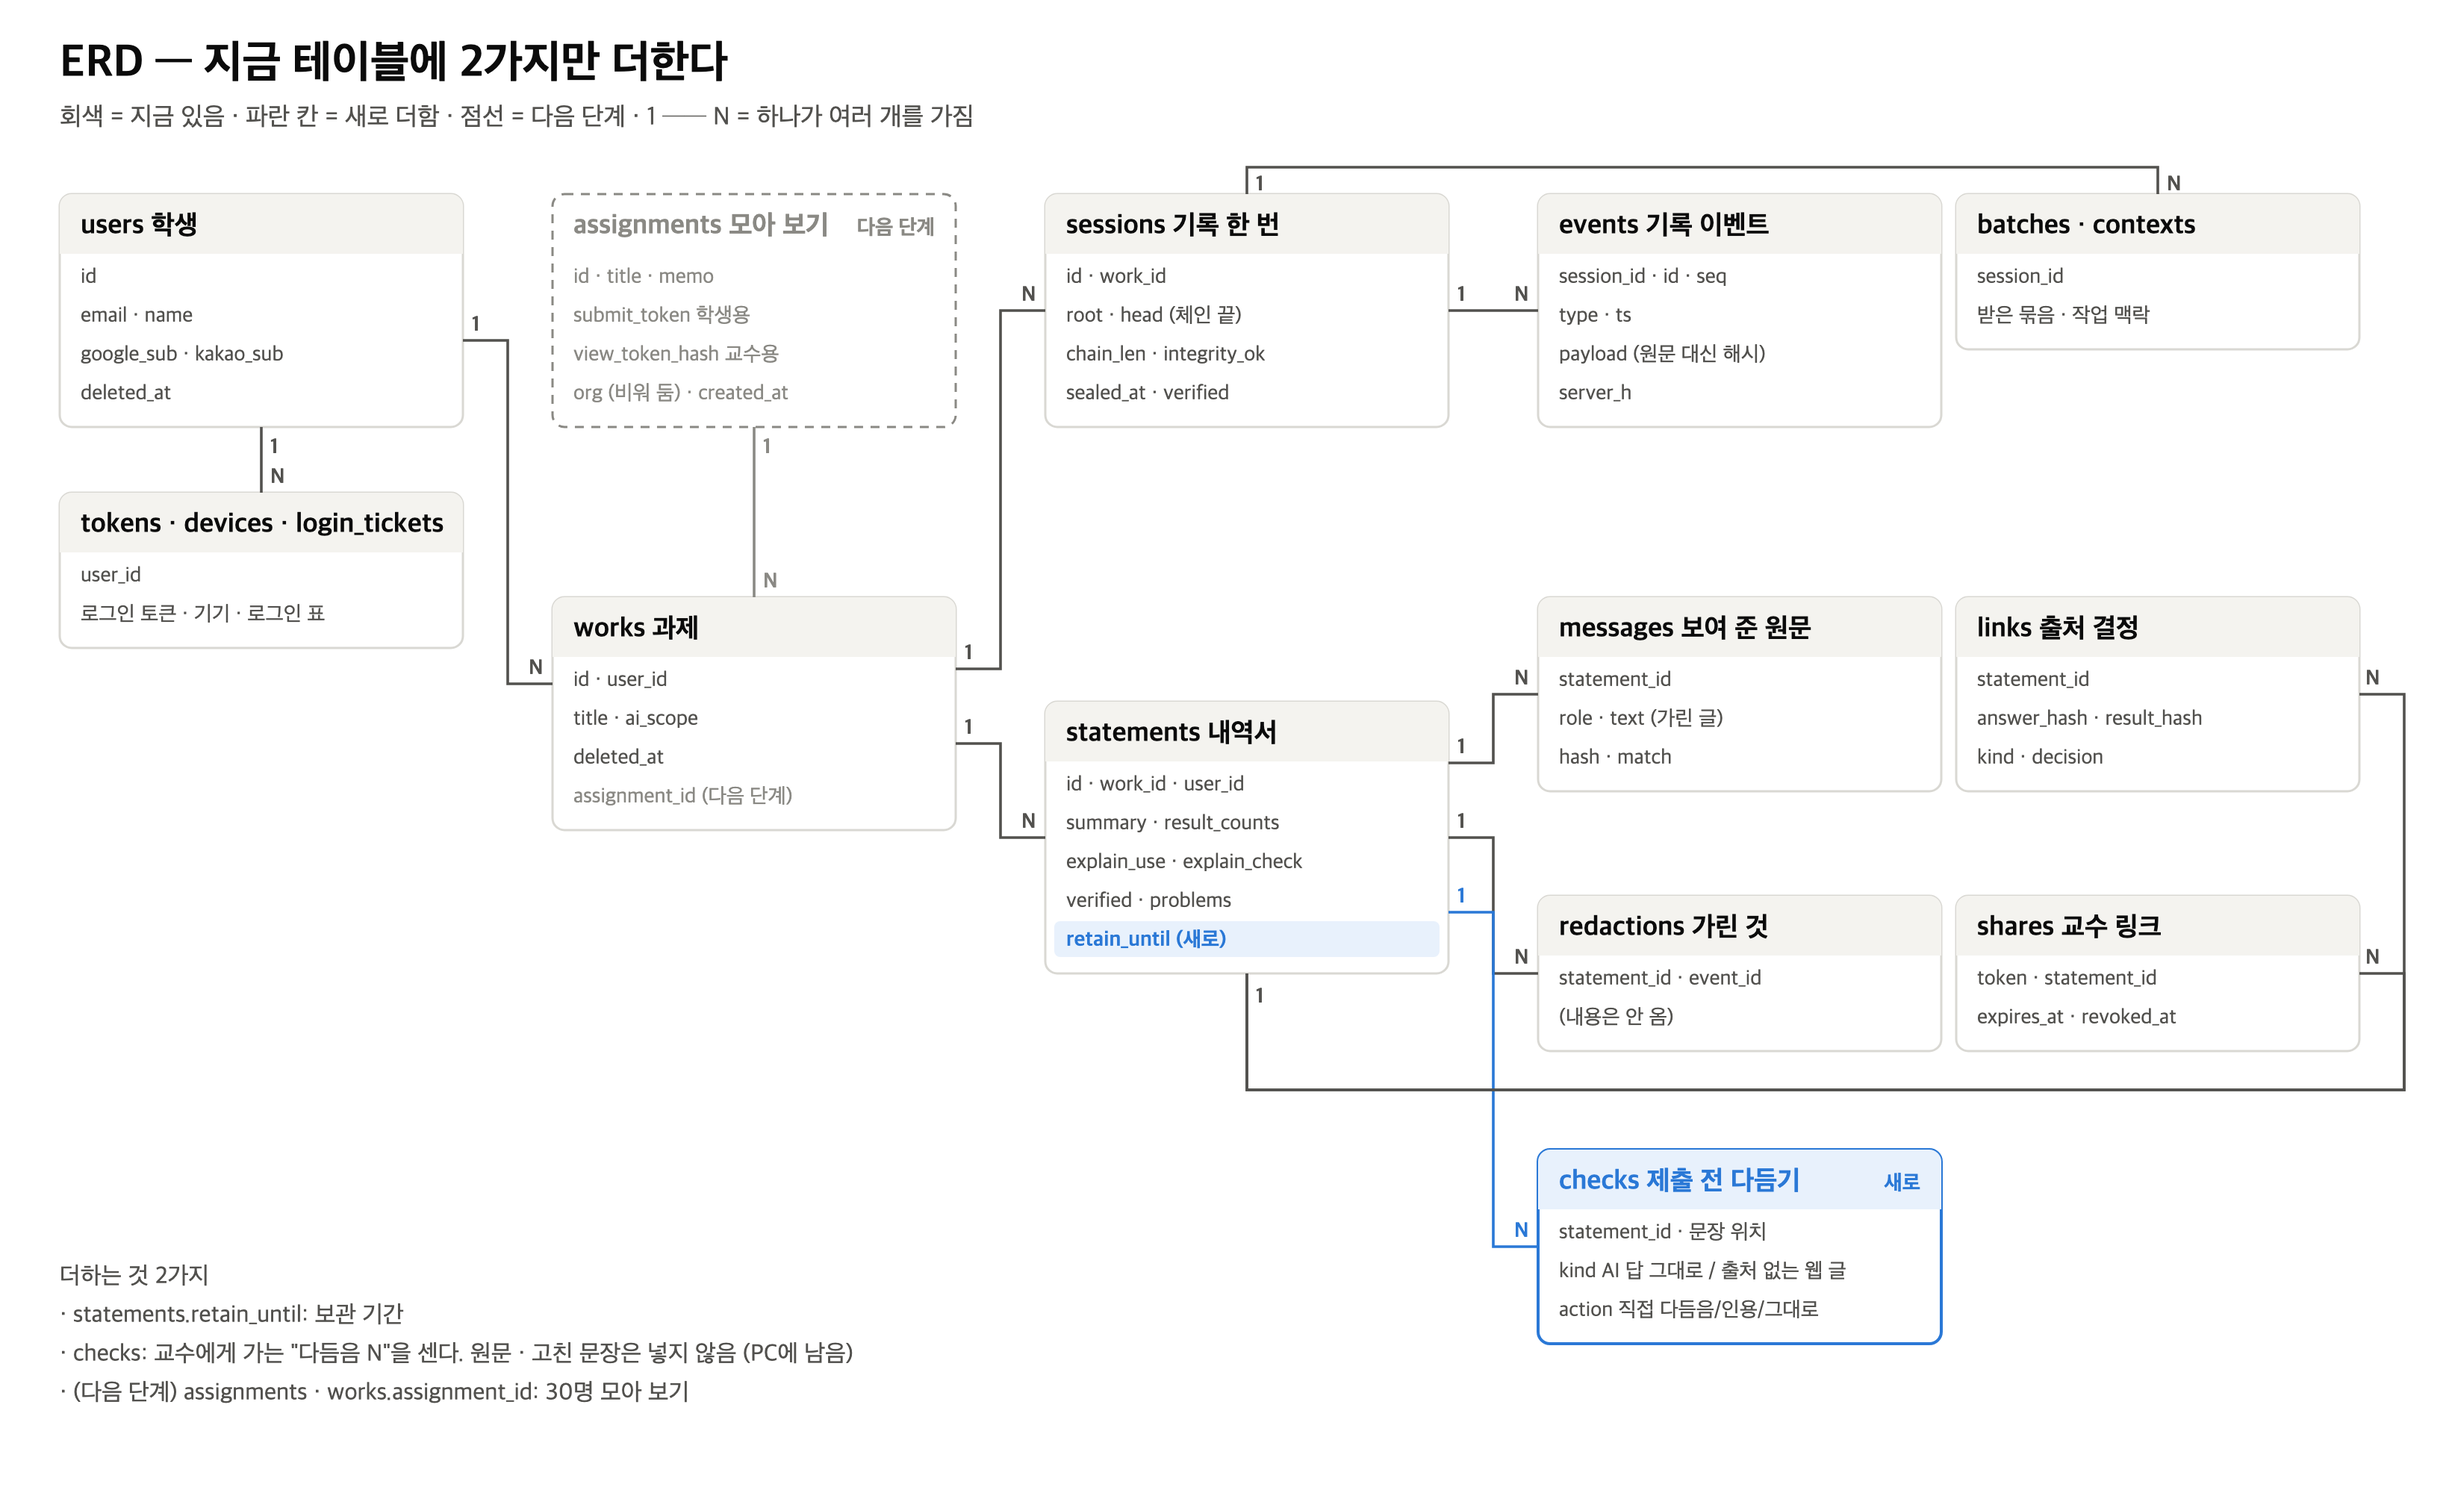
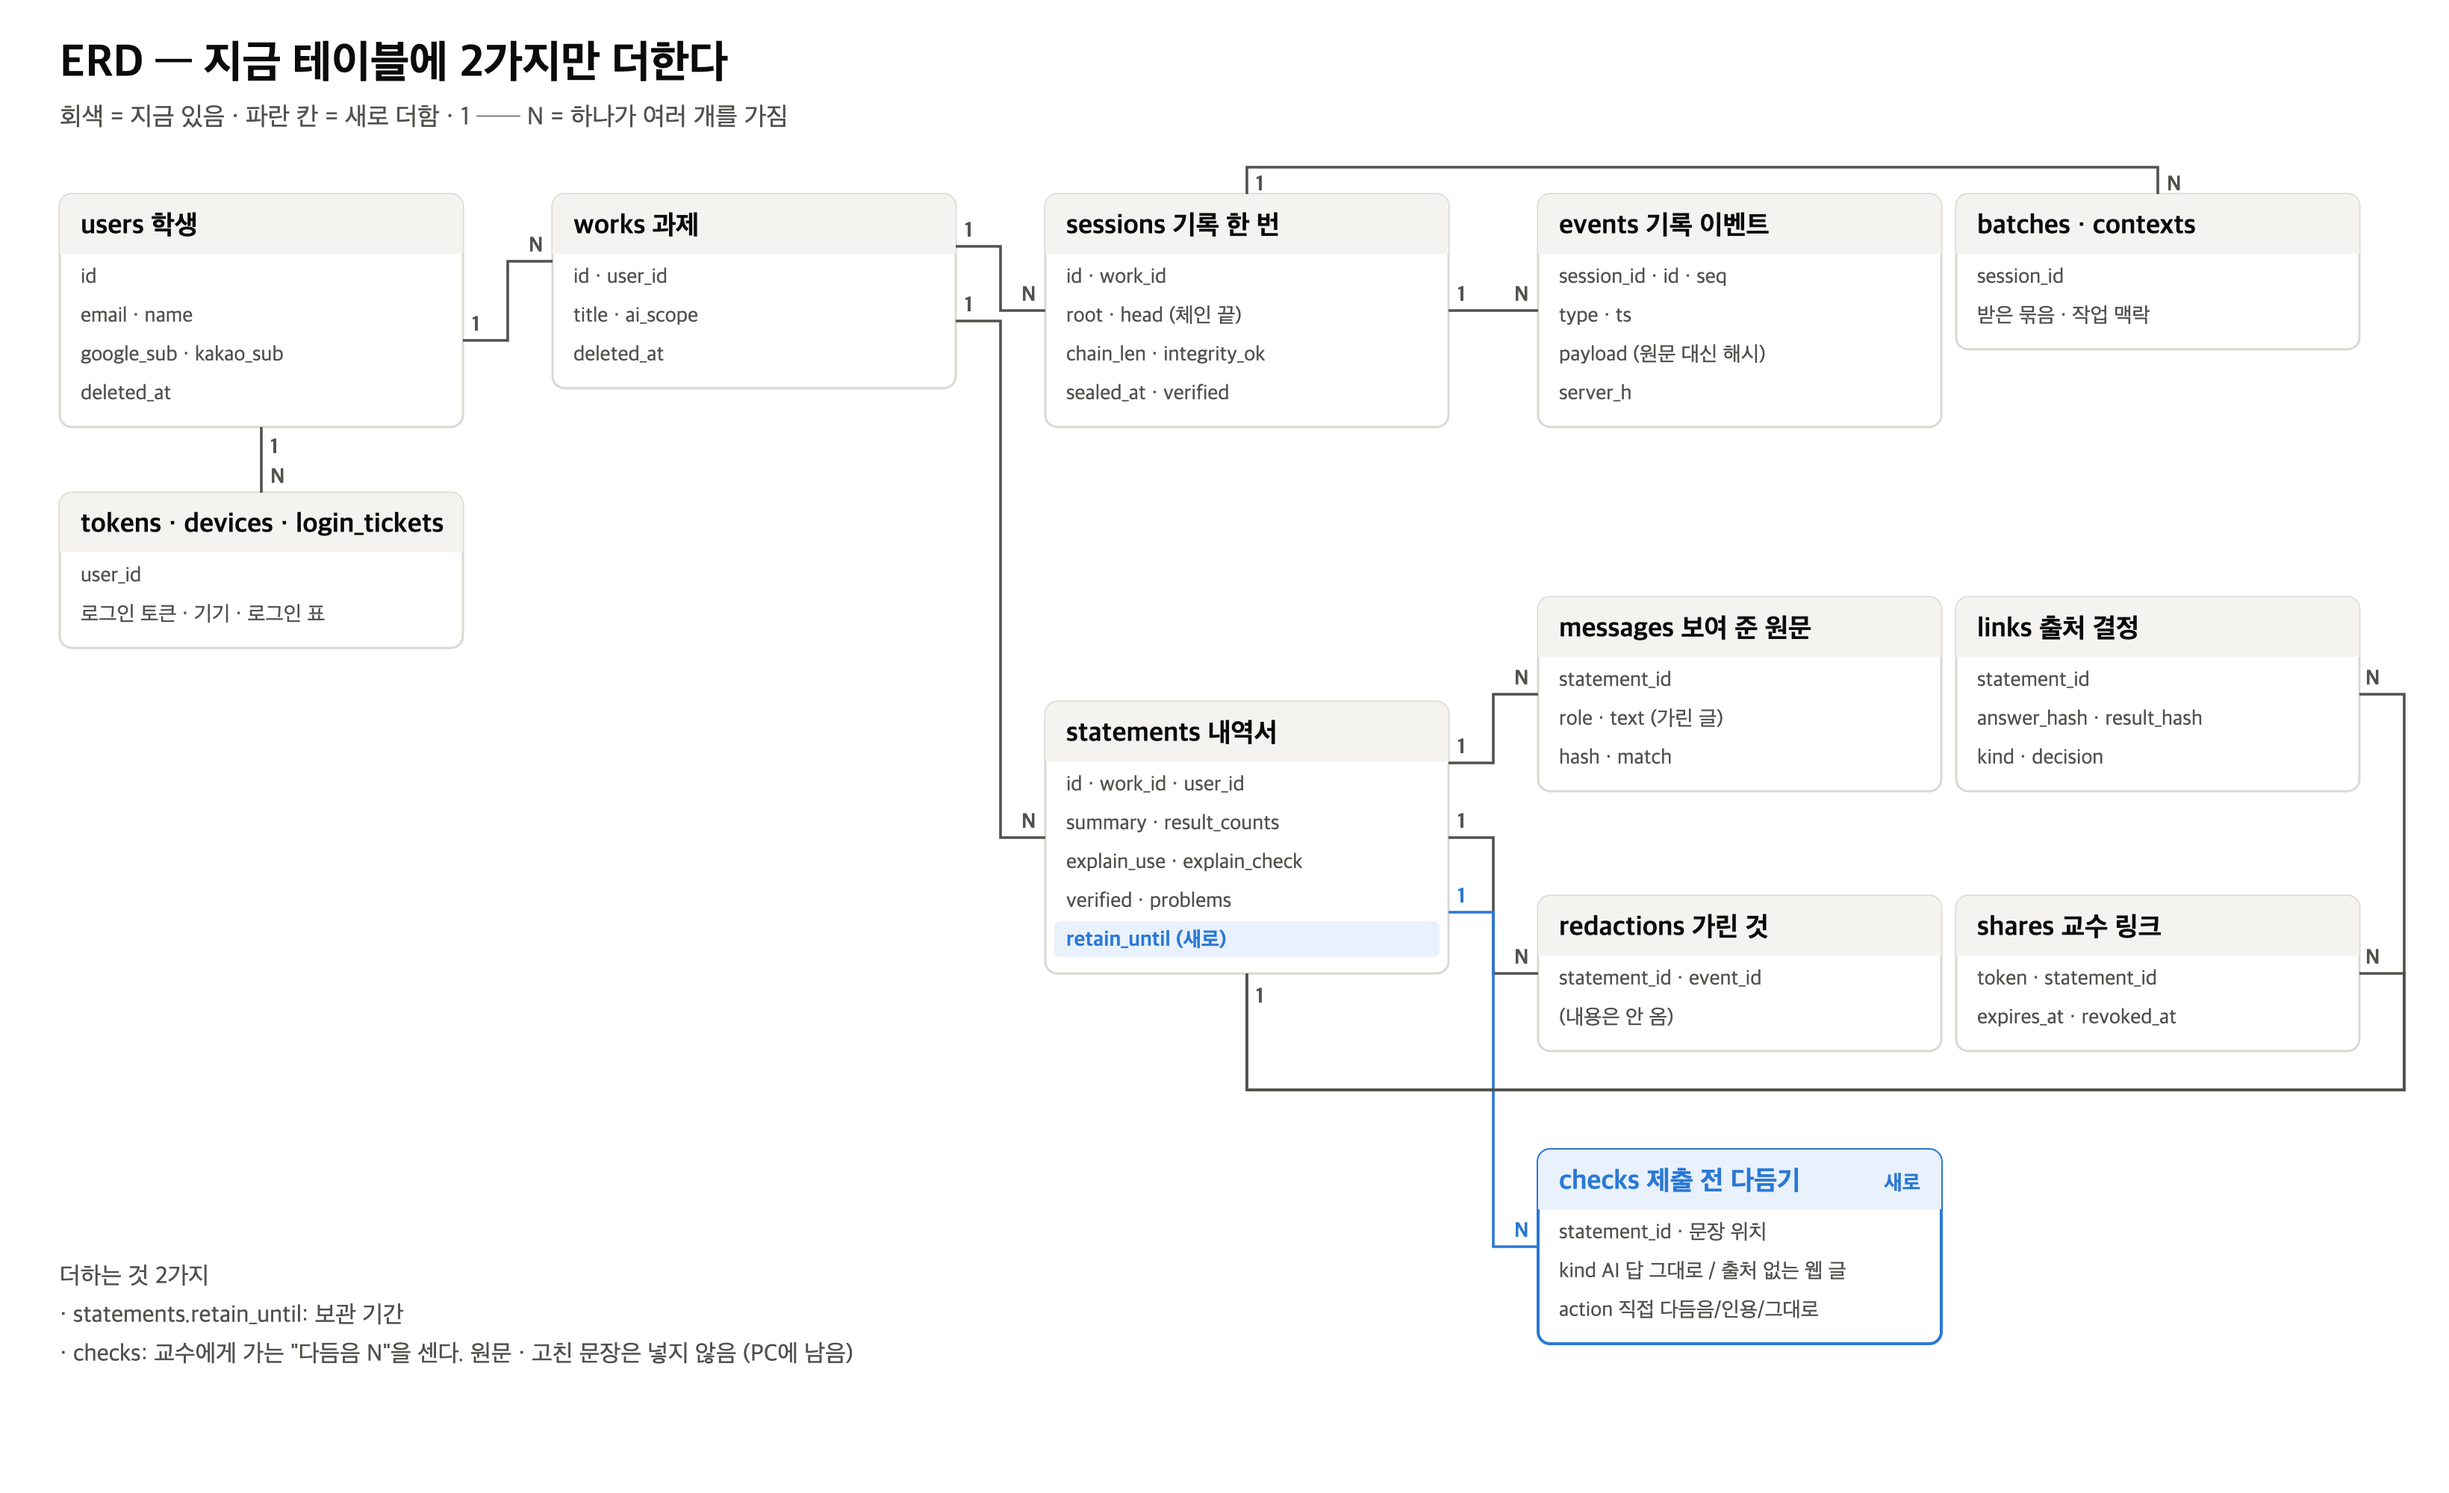
ERD 그림: assignments 모아 보기 · works.assignment_id 뺌 (하지 않음)

diff --git a/2-디자인/발표 그림/figs.py b/2-디자인/발표 그림/figs.py
@@ -161,7 +161,7 @@ def architecture():
 def erd():
     W, H = 1640, 1000
     b = text(40, 52, "ERD — 지금 테이블에 2가지만 더한다", 30, weight=700)
-    b += text(40, 84, "회색 = 지금 있음 · 파란 칸 = 새로 더함 · 점선 = 다음 단계 · 1 ── N = 하나가 여러 개를 가짐", 17, INK2)
+    b += text(40, 84, "회색 = 지금 있음 · 파란 칸 = 새로 더함 · 1 ── N = 하나가 여러 개를 가짐", 17, INK2)
     HD, RH, BW = 40, 26, 270
     pos = {}
 
@@ -196,8 +196,7 @@ def erd():
 
     b += table("users", 40, 130, "users 학생", ["id", "email · name", "google_sub · kakao_sub", "deleted_at"])
     b += table("auth", 40, 330, "tokens · devices · login_tickets", ["user_id", "로그인 토큰 · 기기 · 로그인 표"])
-    b += table("assign", 370, 130, "assignments 모아 보기", ["id · title · memo", "submit_token 학생용", "view_token_hash 교수용", "org (비워 둠) · created_at"], nxt=True)
-    b += table("works", 370, 400, "works 과제", ["id · user_id", "title · ai_scope", "deleted_at"], next_rows=["assignment_id"])
+    b += table("works", 370, 130, "works 과제", ["id · user_id", "title · ai_scope", "deleted_at"])
     b += table("sessions", 700, 130, "sessions 기록 한 번", ["id · work_id", "root · head (체인 끝)", "chain_len · integrity_ok", "sealed_at · verified"])
     b += table("events", 1030, 130, "events 기록 이벤트", ["session_id · id · seq", "type · ts", "payload (원문 대신 해시)", "server_h"])
     b += table("bc", 1310, 130, "batches · contexts", ["session_id", "받은 묶음 · 작업 맥락"])
@@ -225,7 +224,6 @@ def erd():
 
     b += rel("users", "auth", "b", "t")
     b += rel("users", "works", "r", "l", 20, -20)
-    b += rel("assign", "works", "b", "t", 0, 0, MUTED)
     b += rel("works", "sessions", "r", "l", -30, 0)
     b += rel("sessions", "events", "r", "l")
     b += rel("works", "st", "r", "l", 20, 0)
@@ -243,7 +241,7 @@ def erd():
         b += f'<path d="M{tx+tw/2},{ty+th} L{tx+tw/2},730 L{1610},730 L{1610},{ky+kh/2} L{kx+kw},{ky+kh/2}" fill="none" stroke="{INK2}" stroke-width="1.8"/>\n'
         b += text(kx + kw + 4, ky + kh / 2 - 6, "N", 14, INK2, 700)
     b += text(tx + tw / 2 + 6, ty + th + 20, "1", 14, INK2, 700)
-    b += lines(40, 860, ["더하는 것 2가지", "· statements.retain_until: 보관 기간", "· checks: 교수에게 가는 \"다듬음 N\"을 센다. 원문 · 고친 문장은 넣지 않음 (PC에 남음)", "· (다음 단계) assignments · works.assignment_id: 30명 모아 보기"], 16, INK2, 26)
+    b += lines(40, 860, ["더하는 것 2가지", "· statements.retain_until: 보관 기간", "· checks: 교수에게 가는 \"다듬음 N\"을 센다. 원문 · 고친 문장은 넣지 않음 (PC에 남음)"], 16, INK2, 26)
     return svg(W, H, b)
 
 
